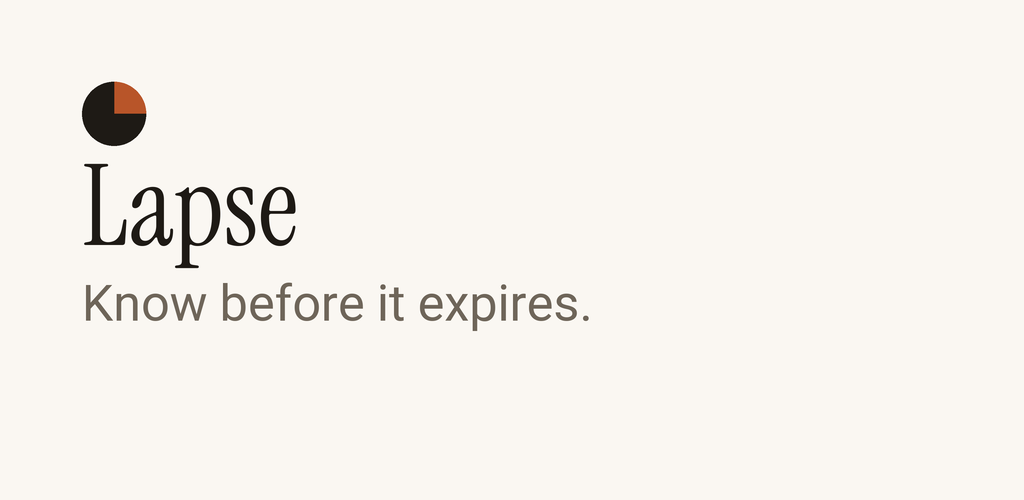
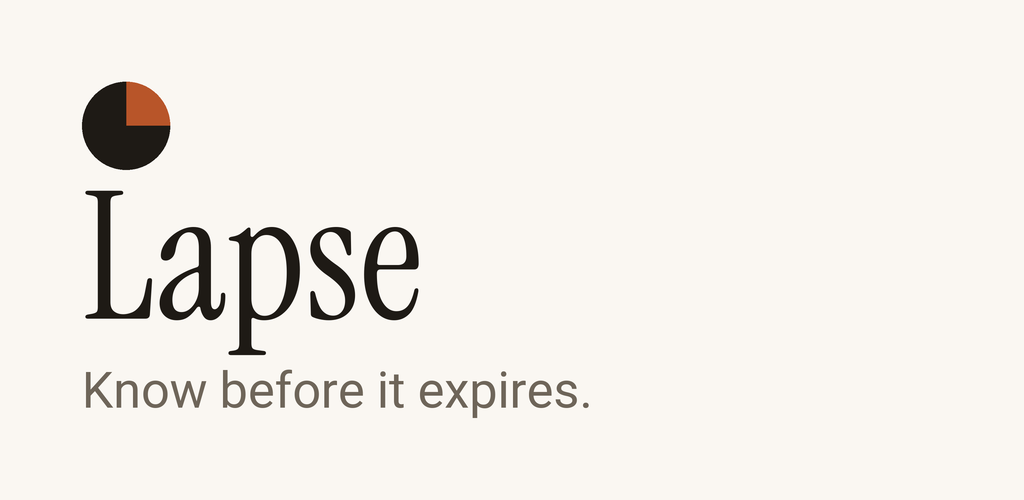
Make the poster cut the Play asset, with an 88px mark
Adopts the poster proportions: at real display size the safe cut's 216px
wordmark does not land. feature-graphic.png is now the poster cut so the file
that gets uploaded needs no renaming; the previous version is kept as
feature-graphic-safe.png.

The mark goes to 88px from 64. A mark that stays put while the wordmark grows
reads as a tittle over the L rather than as a logo. The 24px it takes back
costs the wordmark 56px of width (397 -> 341) and buys a second thing: the
wordmark's right edge moves from x=482 to x=423, clear of a centred video play
button, which at 64px cut across the final 'e' of the name.

render() now reports each element's rectangle. Measuring elements back out of
the pixels was wrong — the downsample rings dark pixels into the tagline, which
made both cuts falsely measure a wordmark reaching x=559.

Remaining trade-off, unchanged: 29% of the ink sits below the bottom-third
line. Both cuts hold 80px margins and survive a centre-crop to 72% of height.

Changed region(s): [[0.0625, 0.15, 0.5625, 0.72], [0.0625, 0.75, 0.5625, 0.84]]

diff --git a/store/generate_feature_graphic.py b/store/generate_feature_graphic.py
@@ -29,7 +29,8 @@ ROOT = os.path.join(HERE, "..")
 # ui/theme/Color.kt — PaperInkMuted. The tagline grey is a warm neutral, not a system grey.
 INK_MUTED = (0x6E, 0x65, 0x59, 255)
 
-SERIF = os.path.join(ROOT, "app", "src", "main", "res", "font", "instrument_serif_regular.ttf")
+SERIF = os.path.join(ROOT, "app", "src", "main", "res",
+                     "font", "instrument_serif_regular.ttf")
 # LapseSans = FontFamily.SansSerif, which is Roboto on Android.
 SANS = os.path.join(HERE, "fonts", "Roboto-Regular.ttf")
 
@@ -48,14 +49,18 @@ TAGLINE = "Know before it expires."
 # width is governed entirely by how much *height* the layout can spare it. That is the whole
 # difference between these two presets.
 #
-#   safe   — nothing below the bottom-third line. 253px of band, wordmark ~216px wide.
-#   poster — uses the full height between the margins. 336px of band, wordmark ~420px wide,
-#            at the cost of putting the tagline inside the bottom third.
+#   poster — the Play asset. Uses the full height between the margins: 336px of band, wordmark
+#            ~341px wide, at the cost of putting the tagline inside the bottom third.
+#   safe    — the alternate. Nothing below the bottom-third line, but only 253px of band, which
+#            holds the wordmark to ~216px — too small to land at real display size.
+#
+# The poster mark is 88px against safe's 64px. It is not just scaled with the canvas: a mark that
+# stays small while the wordmark grows reads as a tittle over the "L" rather than as a logo. The
+# 24px it takes back costs the wordmark ~56px of width, and buys one thing beyond legibility —
+# it pulls the wordmark's right edge clear of a centred video play button.
 PRESETS = {
+    "poster": dict(bottom=H - MARGIN,   mark_d=0.0859, gap_mark=21, gap_tag=14, tagline_w=0.50),
     "safe":   dict(bottom=BOTTOM_THIRD, mark_d=0.0625, gap_mark=18, gap_tag=14, tagline_w=0.50),
-    # Same 64px mark as safe, deliberately: it costs only ~18px of wordmark width, and a mark
-    # that shrinks when the wordmark grows starts reading as a tittle over the "L".
-    "poster": dict(bottom=H - MARGIN,   mark_d=0.0625, gap_mark=18, gap_tag=14, tagline_w=0.50),
 }
 
 PROBE = 200
@@ -84,11 +89,17 @@ def draw_mark(draw, cx, cy, d):
     """
     box = [cx - d / 2, cy - d / 2, cx + d / 2, cy + d / 2]
     # Pillow angles: 0 deg is 3 o'clock, increasing clockwise. Identical spans to the icon's.
-    draw.pieslice(box, start=-90, end=0, fill=URGENT)   # 12 -> 3, the quarter running out
+    # 12 -> 3, the quarter running out
+    draw.pieslice(box, start=-90, end=0, fill=URGENT)
     draw.pieslice(box, start=0, end=270, fill=INK)      # the rest
 
 
-def render(preset, verbose=False):
+def render(preset, verbose=False, boxes=None):
+    """
+    Draws one preset. `boxes`, if given, is filled with each element's final rectangle in
+    output pixels — the layout maths is the only honest source for those, since the downsample
+    rings dark pixels into the tagline and defeats measuring elements back out by colour.
+    """
     p = PRESETS[preset]
     s = SS
     img = Image.new("RGB", (W * s, H * s), PAPER[:3])
@@ -108,35 +119,49 @@ def render(preset, verbose=False):
 
     word_h = band - d - gap_mark - gap_tag - tag_h
     if word_h <= 0:
-        raise SystemExit(f"no room for the wordmark in the {band/s:.0f}px band")
+        raise SystemExit(
+            f"no room for the wordmark in the {band/s:.0f}px band")
     serif = fit_height(SERIF, WORDMARK, word_h)
     wb = serif.getbbox(WORDMARK)
-    word_h = wb[3] - wb[1]   # re-measure: rounding to an integer point size moves it slightly
+    # re-measure: rounding to an integer point size moves it slightly
+    word_h = wb[3] - wb[1]
 
     total = d + gap_mark + word_h + gap_tag + tag_h
     y = band_top + (band - total) / 2
     top = y
 
     draw_mark(draw, left + d / 2, y + d / 2, d)
+    mark_box = (left, y, left + d, y + d)
     y += d + gap_mark
     draw.text((left - wb[0], y - wb[1]), WORDMARK, font=serif, fill=INK)
+    word_box = (left, y, left + (wb[2] - wb[0]), y + word_h)
     y += word_h + gap_tag
     draw.text((left - tb[0], y - tb[1]), TAGLINE, font=sans, fill=INK_MUTED)
+    tag_box = (left, y, left + (tb[2] - tb[0]), y + tag_h)
+
+    if boxes is not None:
+        boxes.update({k: tuple(round(v / s) for v in box) for k, box in
+                      (("mark", mark_box), ("wordmark", word_box), ("tagline", tag_box))})
 
     if verbose:
-        right = max(left + d, left + (wb[2] - wb[0]), left + (tb[2] - tb[0])) / s
-        print(f"  serif {serif.size//s}pt, sans {sans.size//s}pt, mark {d//s}px")
-        print(f"  block y {top/s:.0f}-{(y + tag_h)/s:.0f}   wordmark {(wb[2]-wb[0])/s:.0f}px wide")
-        print(f"  content right edge {right:.0f}px = {right/W*100:.0f}% of width")
+        right = max(left + d, left +
+                    (wb[2] - wb[0]), left + (tb[2] - tb[0])) / s
+        print(
+            f"  serif {serif.size//s}pt, sans {sans.size//s}pt, mark {d//s}px")
+        print(
+            f"  block y {top/s:.0f}-{(y + tag_h)/s:.0f}   wordmark {(wb[2]-wb[0])/s:.0f}px wide")
+        print(
+            f"  content right edge {right:.0f}px = {right/W*100:.0f}% of width")
 
     return img.resize((W, H), Image.LANCZOS)
 
 
 if __name__ == "__main__":
     which = sys.argv[1] if len(sys.argv) > 1 else "both"
+    # feature-graphic.png is the file that gets uploaded, so it is the poster cut.
     targets = {
-        "safe": "feature-graphic.png",
-        "poster": "feature-graphic-poster.png",
+        "poster": "feature-graphic.png",
+        "safe": "feature-graphic-safe.png",
     }
     for name in (targets if which == "both" else [which]):
         print(f"{name}:")

diff --git a/store/screenshots.md b/store/screenshots.md
@@ -186,14 +186,14 @@ and the FAB correctly hides.
 
 ## Still outstanding for the listing
 
-- ~~Feature graphic 1024 × 500~~ — done, **two versions, pick one**. Regenerate both with
+- ~~Feature graphic 1024 × 500~~ — done. Regenerate with
   `python store/generate_feature_graphic.py both`.
-  - `feature-graphic.png` — wordmark 216px wide. Nothing in the bottom third. If a promo video
-    is ever attached, a centred play button lands on the tagline's tail, not the app name.
-  - `feature-graphic-poster.png` — wordmark 400px wide, close to the reference. Costs: 28% of the
-    ink sits below the bottom-third line (the whole tagline plus the "p" descender), and a centred
-    play button falls across the final **e of "Lapse"**.
-  - Both hold 80px margins on every edge and survive a centre-crop down to 72% of height.
+  - **`feature-graphic.png` is the one to upload.** Wordmark 341px wide, 88px mark. The wordmark
+    (y 191–356) and the tagline (y 370–418) both cross the bottom-third line — 29% of the ink is
+    below it — so avoid this one if a Play surface is going to overlay the icon and title there.
+  - `feature-graphic-safe.png` is the alternate: nothing below the bottom-third line, but the
+    wordmark is only 216px and does not land at real display size.
+  - Both hold 80px margins on every edge and survive a centre-crop to 72% of height.
 - **Real AdMob app ID + unit ID** — still the test IDs (`AdIds.kt` and the manifest `meta-data`)
 - ~~Privacy policy URL~~ — done: <https://bryanrodz7.github.io/Lapse/privacy-policy/>
 - **Upload keystore** — you create it; command is in `store/play-listing.md`
